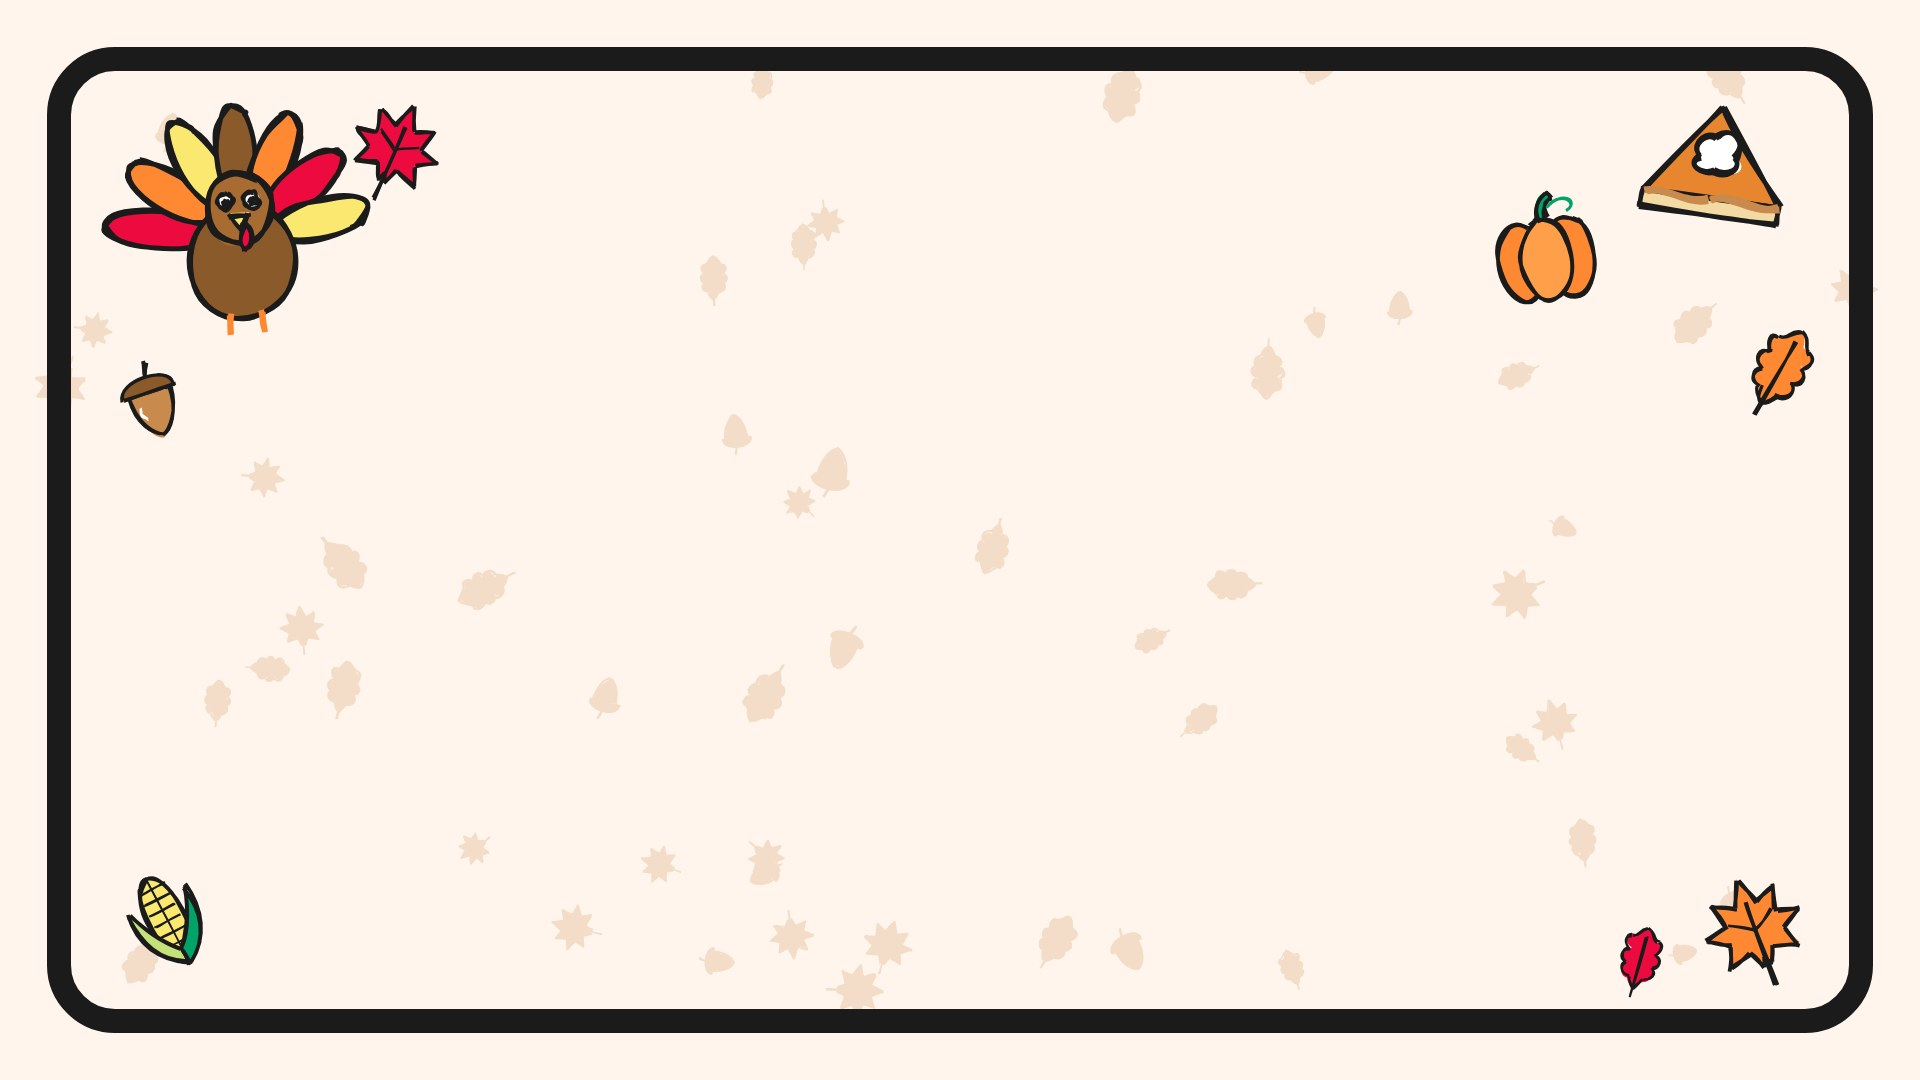
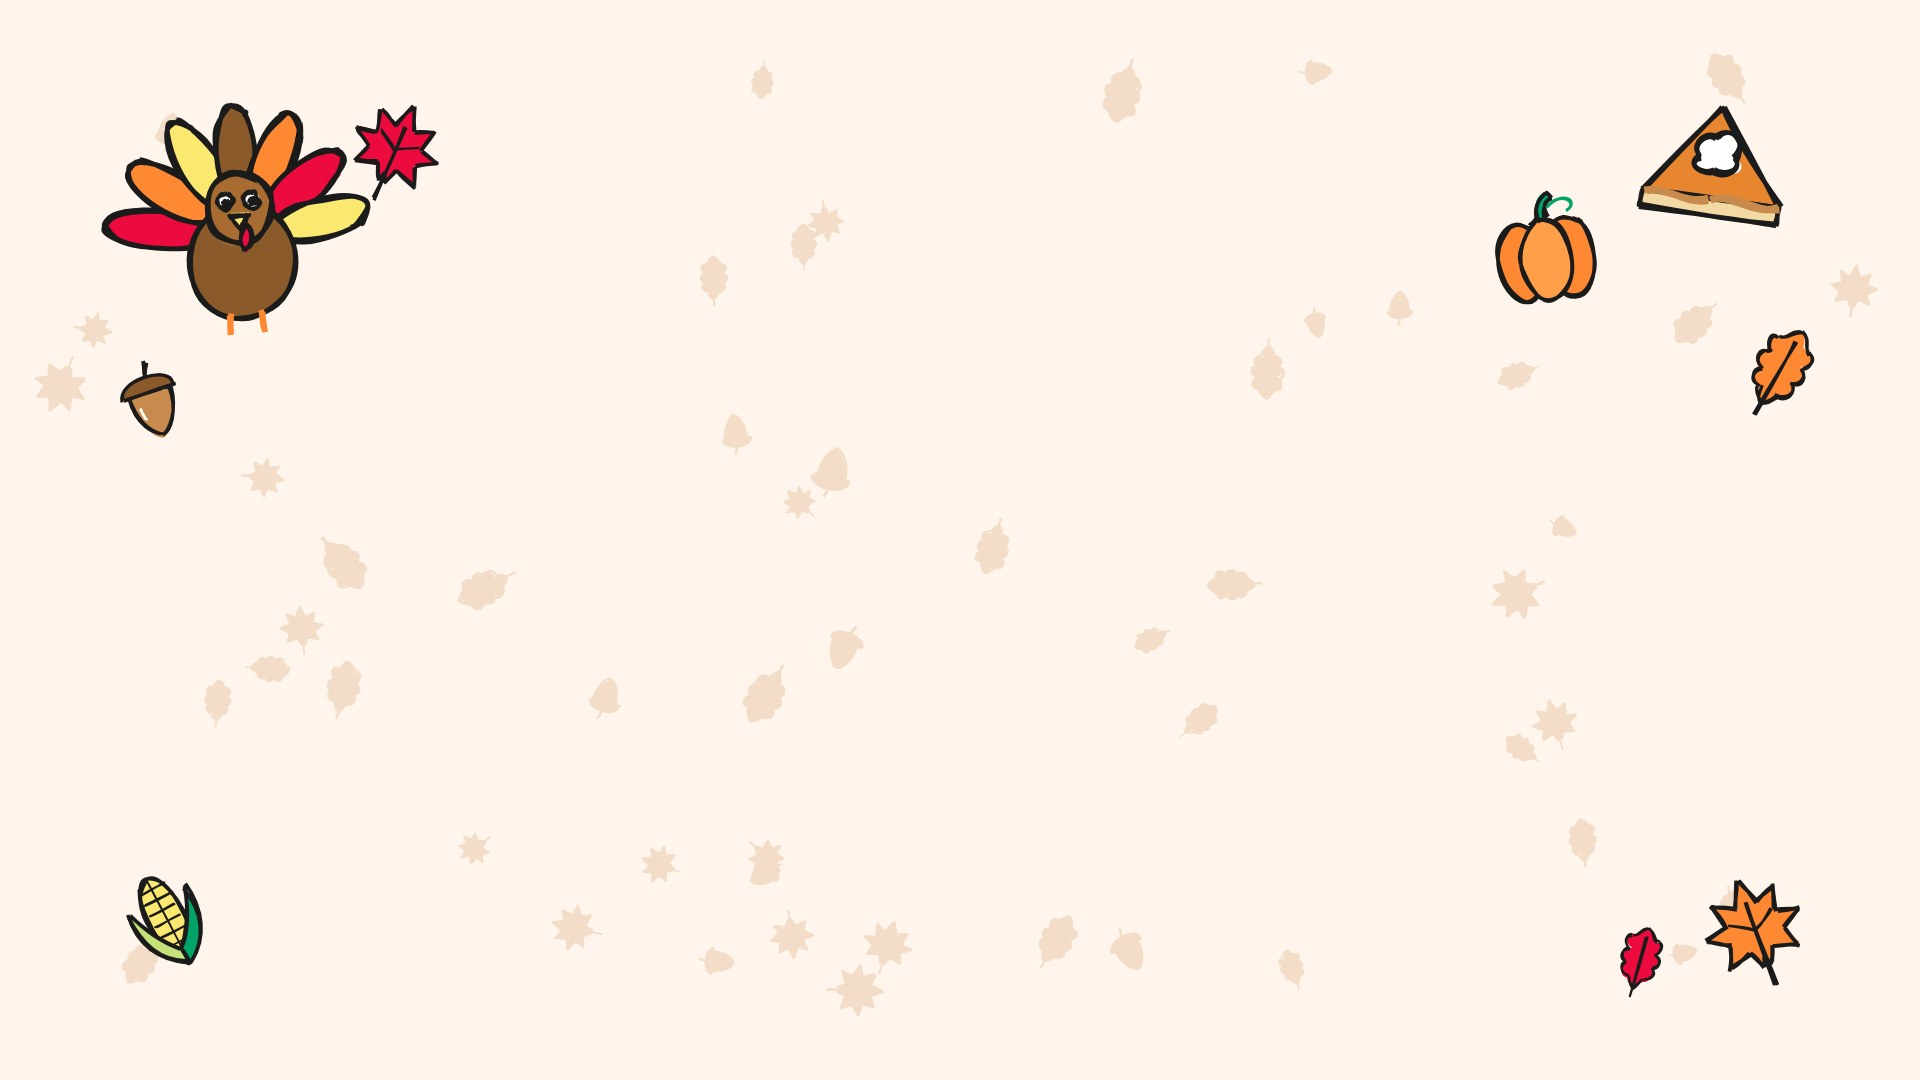
Bulletin: Thanksgiving background without the black frame
Claude-Session: https://claude.ai/code/session_01Fhrc3njGf4vqRLHJnLcqDJ

Changed region(s): [[0.0, 0.0306, 1.0, 0.9778]]

diff --git a/bulletin/bg/thanksgiving.html b/bulletin/bg/thanksgiving.html
@@ -78,9 +78,6 @@ for (let i=0;i<55;i++){
   D[k](e,TEX); e.querySelectorAll('path').forEach(pth=>{ pth.setAttribute('stroke',TEX); if(pth.getAttribute('fill') && pth.getAttribute('fill')!=='none') pth.setAttribute('fill',TEX); });
 }
 
-// marker frame
-const fr=document.createElementNS(NS,'rect'); [['x',59],['y',59],['width',1802],['height',962],['rx',56],['fill','none'],['stroke',INK],['stroke-width',24]].forEach(a=>fr.setAttribute(a[0],a[1])); add(fr);
-
 // bold doodles flanking the title and in the bottom corners
 const put=(k,x,y,r,s,c)=>D[k](g(x,y,r,s),c);
 put('turkey',240,225,-4,1.2);
